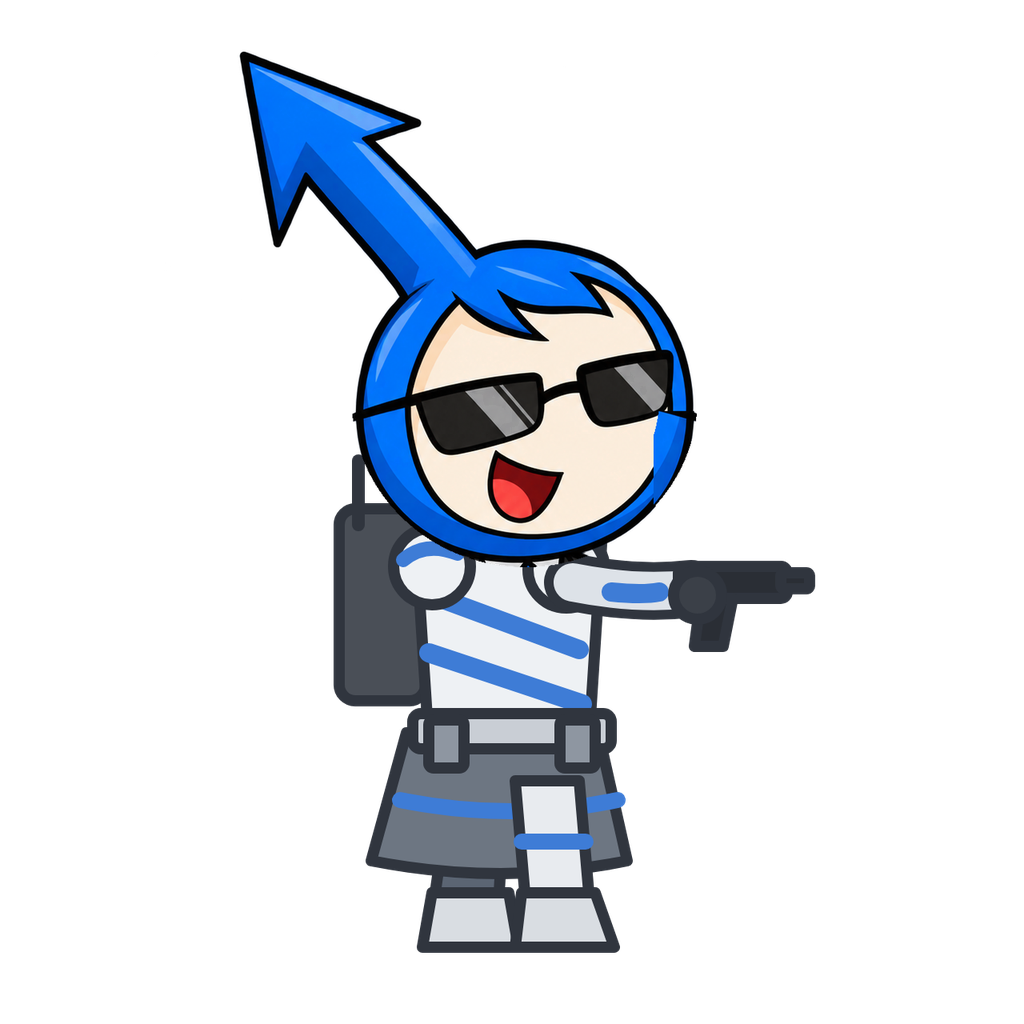
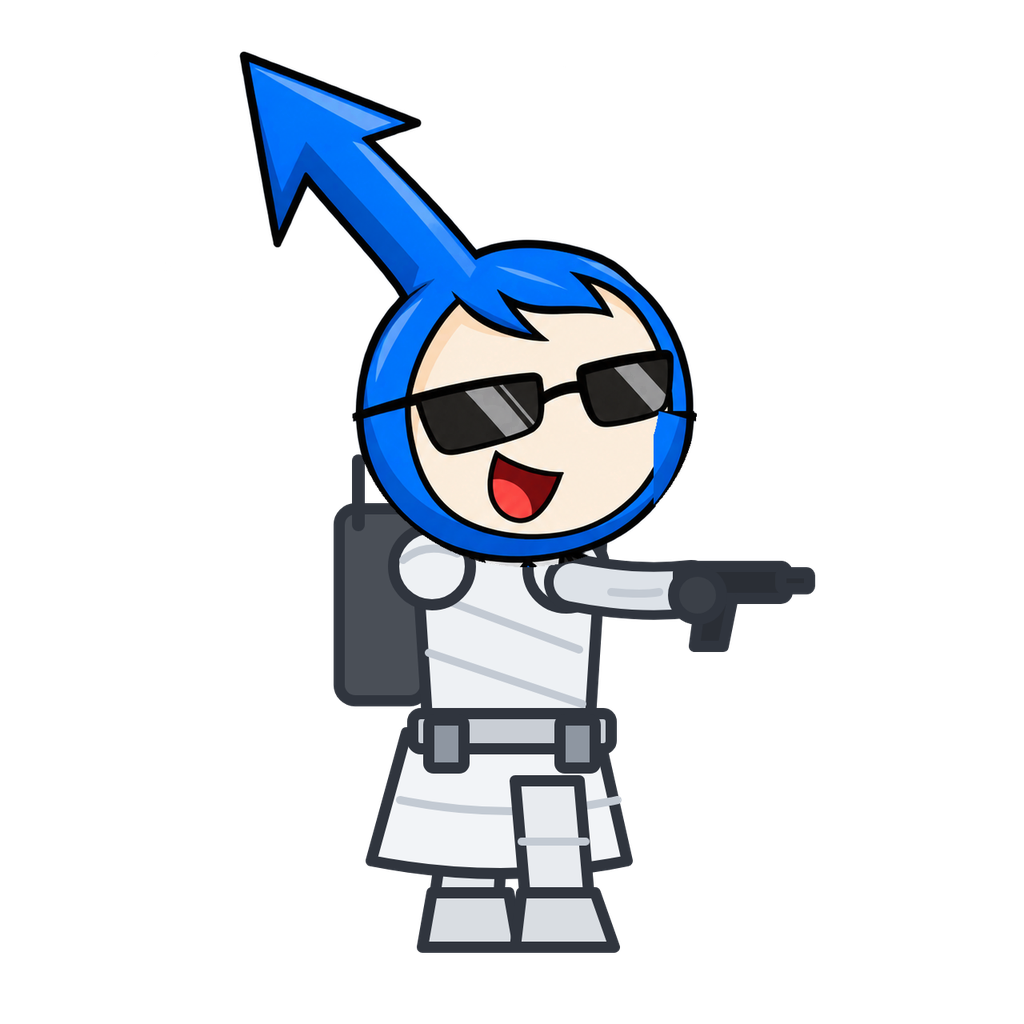
아크 트루퍼 하얀 갑옷, 즉사기 피해·유도 각도 조절
- 아크 트루퍼 몸통을 하얀 갑옷으로(파란 줄무늬 → 옅은 회색 이음선, 장갑 치마·다리 흰 판), 온이름 머리 다시 합성
- 즉사기: 피해(기본 9999 = 즉사)와 유도 각도(기본 180도 = 무조건 명중)를 밸런스 메뉴에서 조절.
  레이저는 조준 방향에서 상대 쪽으로 최대 유도 각도까지 휘고, 그 방향의 빛줄기(굵기 40)가 몸에 닿아야 맞음.
  빗나가면 꺾인 방향으로 경기장 끝까지 나가며(명중 섬광 없음), 한 경기 한 번은 그대로
- 테스트 추가, README·기획 문서 갱신

Claude-Session: https://claude.ai/code/session_01NqpxDEEsTPJDpYjnMmnjDu

Changed region(s): [[0.375, 0.7188, 0.625, 0.875], [0.375, 0.5312, 0.5938, 0.6875], [0.5938, 0.5625, 0.6562, 0.5938]]

diff --git a/src/game/update.js b/src/game/update.js
@@ -317,8 +317,9 @@ function fire(match, p, events) {
 export const elapsed = (match) => match.tick * TICK;
 
 /**
- * 즉사기: 가장 가까운 상대에게 유도되는 거대한 레이저. 엄폐물·무적과 상관없이 반드시 맞아 즉사한다.
- * 한 경기에 한 번(p.instakillUsed).
+ * 즉사기: 조준 방향에서 가장 가까운 상대 쪽으로 최대 weapon.homing도까지 휘는 거대한 레이저.
+ * 휜 방향의 빛줄기(굵기 beamWidth)가 상대 몸에 닿으면 weapon.damage 피해(기본 9999 = 즉사). 엄폐물·무적은 무시한다.
+ * 맞든 빗나가든 한 경기에 한 번(p.instakillUsed).
  */
 function fireInstakill(match, p, weapon, events) {
   let target = null, best = Infinity;
@@ -330,10 +331,24 @@ function fireInstakill(match, p, weapon, events) {
   if (!target) return;
   p.instakillUsed = true;
   const x1 = p.x + Math.cos(p.aim) * MUZZLE_OFFSET * 1.6, y1 = p.y + Math.sin(p.aim) * MUZZLE_OFFSET * 1.6;
+  // 유도: 조준 방향에서 상대 방향으로 최대 homing도까지 꺾는다
+  const toTarget = Math.atan2(target.y - y1, target.x - x1);
+  const diff = Math.atan2(Math.sin(toTarget - p.aim), Math.cos(toTarget - p.aim));
+  const limit = (Math.max(0, weapon.homing) * Math.PI) / 180;
+  const dir = p.aim + Math.max(-limit, Math.min(limit, diff));
+  const reach = 2400;
+  const x2 = x1 + Math.cos(dir) * reach, y2 = y1 + Math.sin(dir) * reach;
+  const hit = segmentCircleTime(x1 - target.x, y1 - target.y, x2 - target.x, y2 - target.y,
+    target.radius + weapon.beamWidth / 2) !== null;
   events.push({ type: 'fire', playerId: p.id, weapon: weapon.id });
-  events.push({ type: 'megalaser', playerId: p.id, x1, y1, x2: target.x, y2: target.y, aim: p.aim });
+  events.push({
+    type: 'megalaser', playerId: p.id, x1, y1, aim: p.aim, hit,
+    // 맞으면 상대에게 휘어 꽂히고, 빗나가면 꺾인 방향으로 경기장 끝까지
+    x2: hit ? target.x : x1 + Math.cos(dir) * 1800, y2: hit ? target.y : y1 + Math.sin(dir) * 1800,
+  });
+  if (!hit) return;
   const shot = { team: p.team, ownerId: p.id, weapon: weapon.id, connected: false };
-  damage(match, target, target.hp, shot, events);
+  damage(match, target, weaponDamage(p, weapon.id).damage, shot, events);
 }
 
 /** 단검 돌진 시작: 조준 방향으로 날아가 상대에 닿거나, 엄폐물·상대 레일·경기장 끝에 닿으면 자기 자리로 돌아온다. */

diff --git a/src/game/config.js b/src/game/config.js
@@ -26,8 +26,9 @@ export const TICK = 1 / 60;
  * dash: 쏘는 대신 조준 방향으로 dash.speed(초당)로 돌진해 상대 몸에 닿으면 damage를 준다(단검).
  * pellets·spread: 한 번에 pellets발을 spread도 부채꼴로 고르게 쏜다(샷건).
  * arrows·arrowGap: 한 번에 arrows발을 arrowGap 간격으로 나란히 쏜다(아킴보 석궁).
- * instakill: 거대한 레이저로 가장 가까운 상대를 반드시 맞혀 즉사시킨다(엄폐물·무적 무시). 경기 시작 readyAfter초 뒤부터,
- *   한 경기에 한 번 쓸 수 있다(제작자 전용).
+ * instakill: 거대한 레이저. 조준 방향에서 가장 가까운 상대 쪽으로 최대 homing도까지 휘어(180이면 어디를 겨눠도 명중),
+ *   닿으면 damage 피해(기본 9999 = 즉사)를 준다. 엄폐물·무적은 무시한다. 경기 시작 readyAfter초 뒤부터 한 경기에 한 번(제작자 전용).
+ *   beamWidth는 레이저 굵기(명중 판정 여유).
  * thrown: 던지는 무기. 엄폐물·플레이어 위로 날아가 목표 레일 선에서 터진다(직격 없음, 폭발 피해만).
  */
 export const WEAPONS = {
@@ -45,7 +46,9 @@ export const WEAPONS = {
     note: '팀 진영에 강철 엄폐물',
   },
   // 제작자 전용 주무기: 커다란 레이저포. 전투 시작 30초 뒤부터 쏠 수 있고, 쏘면 유도되는 거대 레이저가 상대를 즉사시킨다.
-  instakill: { id: 'instakill', name: '즉사기', interval: 0, damage: 0, burst: 1, instakill: true, readyAfter: 30 },
+  instakill: {
+    id: 'instakill', name: '즉사기', interval: 0, damage: 9999, burst: 1, instakill: true, readyAfter: 30, homing: 180, beamWidth: 40,
+  },
   // 드론(R-10) 전용 주무기
   laser: { id: 'laser', name: '레이저 캐논', interval: 0.1, damage: 4, burst: 1, beam: true, battery: { shots: 30, recharge: 2 } },
   // 보조무기

diff --git a/src/render/canvas.js b/src/render/canvas.js
@@ -325,8 +325,10 @@ export function createRenderer(canvas, wrap, assets) {
       ctx.quadraticCurveTo(cx, cy, fx.x2, fx.y2);
       ctx.stroke();
     }
-    ctx.fillStyle = 'rgba(255,255,255,0.8)';
-    ctx.beginPath(); ctx.arc(fx.x2, fx.y2, 70 * (1 - k * 0.6), 0, Math.PI * 2); ctx.fill();
+    if (fx.hit) {
+      ctx.fillStyle = 'rgba(255,255,255,0.8)';
+      ctx.beginPath(); ctx.arc(fx.x2, fx.y2, 70 * (1 - k * 0.6), 0, Math.PI * 2); ctx.fill();
+    }
     ctx.restore();
   }
 
@@ -499,7 +501,7 @@ export function createRenderer(canvas, wrap, assets) {
         if (e.type === 'hit') effects.push({ kind: 'hit', x: e.x, y: e.y, damage: e.damage, age: 0 });
         if (e.type === 'block') effects.push({ kind: 'block', x: e.x, y: e.y, age: 0 });
         if (e.type === 'explode') effects.push({ kind: 'explode', x: e.x, y: e.y, radius: e.radius, age: 0 });
-        if (e.type === 'megalaser') effects.push({ kind: 'megalaser', x1: e.x1, y1: e.y1, x2: e.x2, y2: e.y2, aim: e.aim, age: 0 });
+        if (e.type === 'megalaser') effects.push({ kind: 'megalaser', x1: e.x1, y1: e.y1, x2: e.x2, y2: e.y2, aim: e.aim, hit: e.hit, age: 0 });
         if (e.type === 'laser') effects.push({ kind: 'laser', x1: e.x1, y1: e.y1, x2: e.x2, y2: e.y2, age: 0 });
         if (e.type === 'cover-break') effects.push({ kind: 'debris', x: e.x, y: e.y, age: 0 });
       }

diff --git a/src/ui/widgets.js b/src/ui/widgets.js
@@ -4,7 +4,11 @@ export function weaponInfo(w) {
   if (w.beam) return `${w.interval}초마다 ${w.damage} · 배터리 ${w.battery.shots}발, 쉬면 ${w.battery.recharge}초 뒤 완충`;
   if (w.heat) return `${w.interval}초마다 ${w.damage} · ${w.heat.max}초 연사하면 과열 ${w.heat.cooldown}초`;
   if (w.thrown) return `아이템 버튼으로 던짐 · 반경 ${w.splash.radius} 폭발 ${w.splash.damage} · 쿨타임 ${w.interval}초`;
-  if (w.instakill) return `전투 시작 ${w.readyAfter}초 뒤부터 · 쏘면 거대한 레이저가 반드시 맞아 즉사 · 한 경기 한 번`;
+  if (w.instakill) {
+    const aim = w.homing >= 180 ? '반드시 맞아' : `최대 ${w.homing}도 휘어 맞으면`;
+    const hurt = w.damage >= 9999 ? '즉사' : `${w.damage} 피해`;
+    return `전투 시작 ${w.readyAfter}초 뒤부터 · 쏘면 거대한 레이저가 ${aim} ${hurt} · 한 경기 한 번`;
+  }
   if (w.dash) return `조준 후 떼면 매우 빠르게 돌진 · 닿으면 ${w.damage} · 쿨타임 ${w.interval}초`;
   if (w.pellets) return `조준 후 떼면 부채꼴로 ${w.pellets}발 · 한 발 ${w.damage} · 쿨타임 ${w.interval}초`;
   if (w.trigger === 'release') {

diff --git a/src/game/balance.js b/src/game/balance.js
@@ -48,6 +48,8 @@ export const SECTIONS = [
         ['유도 회전(rad/초)', ['homing', 'turnRate'], { max: 10, step: 0.1 }],
       ]),
       ...gun('sniper'),
+      param('즉사기', '피해(9999면 즉사)', ['weapons', 'instakill', 'damage'], { max: 9999, step: 1 }),
+      param('즉사기', '유도 각도(도, 180이면 무조건 명중)', ['weapons', 'instakill', 'homing'], { max: 180, step: 1 }),
       param('즉사기', '사용 가능 시각(전투 시작 후)', ['weapons', 'instakill', 'readyAfter'], { max: 600, step: 1, unit: SEC }),
       ...gun('crossbow', [['두 화살 간격', ['arrowGap'], { max: 120, step: 1 }]]),
     ],

diff --git a/README.md b/README.md
@@ -73,15 +73,15 @@ npm test         # node --test, 이동·조준·발사·무기 선택·수류탄
 
 체력 500, 히트박스 반지름 30, 이동 속도 300이며, 수치는 밸런스 조정 메뉴에서 바꿀 수 있습니다.
 
-**숨겨진 캐릭터 · 아크 트루퍼**: 캐릭터 선택 화면에서 **온이름 버튼을 빠르게 2번 누르면**(0.5초 안) 그 버튼이 아크 트루퍼로 바뀌고 선택됩니다. 아크 트루퍼가 된 버튼을 한 번 누르면 온이름으로 돌아옵니다. 파란 줄무늬 흰 장갑을 입은 병사에 **얼굴은 온이름**이며, **제트팩으로 떠서 움직이며 움직일 때 제트팩에서 불꽃이 나오고, 다른 캐릭터(초당 300)보다 빠릅니다(초당 420)**. 그림은 직접 그린 장갑 몸통에 온이름 머리를 합성한 것입니다(받은 참고 그림은 공식 저작물이라 쓰지 않음). 무기는 다른 캐릭터처럼 자유롭게 고르고, **상대에게 피해를 줄 때마다 5를 더 줍니다**(총알·폭발·돌진 모두, 밸런스 메뉴에서 조절).
+**숨겨진 캐릭터 · 아크 트루퍼**: 캐릭터 선택 화면에서 **온이름 버튼을 빠르게 2번 누르면**(0.5초 안) 그 버튼이 아크 트루퍼로 바뀌고 선택됩니다. 아크 트루퍼가 된 버튼을 한 번 누르면 온이름으로 돌아옵니다. **하얀 갑옷**을 입은 병사에 **얼굴은 온이름**이며, **제트팩으로 떠서 움직이며 움직일 때 제트팩에서 불꽃이 나오고, 다른 캐릭터(초당 300)보다 빠릅니다(초당 420)**. 그림은 직접 그린 하얀 갑옷 몸통에 온이름 머리를 합성한 것입니다(받은 참고 그림은 공식 저작물이라 쓰지 않음). 무기는 다른 캐릭터처럼 자유롭게 고르고, **상대에게 피해를 줄 때마다 5를 더 줍니다**(총알·폭발·돌진 모두, 밸런스 메뉴에서 조절).
 
 **숨겨진 캐릭터 · 제작자**: 온이름 버튼을 **빠르게 3번** 누르면 나타납니다(2번째에 아크 트루퍼로 바뀌었다가 3번째에 제작자로 바뀜). 한 번 누르면 온이름으로 돌아옵니다. 모습은 온이름인데 몸에 빨간 글씨로 '제작자'라고 써 있습니다. 전용 주무기 **즉사기**만 씁니다(보조무기·수류탄 없음).
 
 | 전용 주무기 | 발사 방식 | 피해 |
 | --- | --- | --- |
-| 즉사기 | 커다란 레이저포. **전투 시작 30초 뒤부터** 쏠 수 있고(그 전엔 버튼에 남은 초, 캐릭터 아래 빨간 막대가 차오름), 쏘면 거대한 레이저가 가장 가까운 상대에게 휘어 들어가 **무조건 맞음**(엄폐물·단검 무적도 무시). 한 경기에 한 번 | 즉사 |
+| 즉사기 | 커다란 레이저포. **전투 시작 30초 뒤부터** 쏠 수 있고(그 전엔 버튼에 남은 초, 캐릭터 아래 빨간 막대가 차오름), 쏘면 거대한 레이저가 조준 방향에서 가장 가까운 상대 쪽으로 휘어 들어감. 기본은 **무조건 맞음**(유도 180도, 엄폐물·단검 무적도 무시). 맞든 빗나가든 한 경기에 한 번 | 즉사(기본 9999) |
 
-사용 가능 시각(전투 시작 후 몇 초)은 밸런스 조정 메뉴에서 바꿀 수 있습니다. 경기가 끝나면 마지막 한 방이 보이도록 결과 화면은 약 1초 뒤에 뜹니다.
+밸런스 조정 메뉴에서 즉사기의 **피해**(9999면 즉사, 줄이면 그만큼만), **유도 각도**(조준 방향에서 최대 몇 도까지 휘는지, 180이면 어디를 겨눠도 명중·작게 하면 비슷하게 겨눠야 맞음), **사용 가능 시각**(전투 시작 후 몇 초)을 바꿀 수 있습니다. 경기가 끝나면 마지막 한 방이 보이도록 결과 화면은 약 1초 뒤에 뜹니다.
 
 RPG는 가장 가까운 적 쪽으로 휘어 날아가며(초당 최대 약 46°, 약하게), 빗나가도 적 레일 선·경기장 끝·수명 끝에서 반드시 터져 주변에 폭발 피해를 줍니다.
 

diff --git a/docs/02-game-design.md b/docs/02-game-design.md
@@ -53,7 +53,7 @@
 | 주무기 | 쌍권총 | 누르고 있으면 0.5초마다 2점사(0.1초 간격) | 10 | 탄속 720 |
 | 주무기 | RPG | 떼면 발사, 쿨타임 1초 | 직격 40, 폭발 10(반경 120) | 탄속 900, 가장 가까운 적 쪽으로 약하게 유도(초당 0.8rad). 빗나가도 적 레일 선·경기장 끝·수명 끝에서 폭발. 엄폐물 직격은 2배 |
 | 주무기 | 저격총 | 떼면 발사, 쿨타임 1초 | 60 | 탄속 1600, 긴 조준선. 고르면 자기 진영에 부서지지 않는 강철 엄폐물 1개 |
-| 제작자 전용 | 즉사기 | 전투 시작 30초 뒤부터, 누르면 발사, 한 경기 한 번 | 즉사 | 거대한 레이저가 가장 가까운 상대에게 유도되어 무조건 맞음(엄폐물·무적 무시). 사용 가능 시각은 밸런스로 조절 |
+| 제작자 전용 | 즉사기 | 전투 시작 30초 뒤부터, 누르면 발사, 한 경기 한 번 | 9999(즉사) | 거대한 레이저가 조준 방향에서 상대 쪽으로 최대 180도 휘어 무조건 맞음(엄폐물·무적 무시). 피해·유도 각도·사용 가능 시각은 밸런스로 조절 |
 | 숨겨진 캐릭터 전용 | 아킴보 석궁 | 누르고 있으면 0.7초마다 화살 2개가 나란히 | 화살 1개 12 | 탄속 1500, 화살 간격 26. 에스가라 케스가라의 분신만 사용 |
 | 드론 전용 | 레이저 캐논 | 누르고 있으면 0.1초마다, 즉시 닿는 광선 | 4 | 배터리 30발, 마지막 발사 2초 뒤 완충. R-10은 이 무기만 쓰며 보조무기·아이템 없음 |
 | 보조무기 | 기관단총(기본) | 누르고 있으면 0.1초마다 | 4 | 탄속 800. 4초 연사하면 과열되어 2초 사용 불가, 쉬면 초당 1씩 식음 |
@@ -67,7 +67,7 @@
 | --- | --- | --- | --- | --- |
 | 온이름·피자럭스·요원 1·요원 2 | 500 | 30 | 300 | 주무기 5종 중 선택 |
 | R-10(드론) | 400 | 48 | 300 | 1.4배 크게 그림, 레이저 캐논 고정 |
-| 아크 트루퍼(숨겨진 캐릭터) | 500 | 30 | 420 | 선택 화면에서 온이름 버튼을 빠르게 2번 누르면 온이름 자리에 나타남. 제트팩으로 떠서 움직임(불꽃), 무기 자유 선택, 상대에게 주는 피해마다 +5 |
+| 아크 트루퍼(숨겨진 캐릭터) | 500 | 30 | 420 | 선택 화면에서 온이름 버튼을 빠르게 2번 누르면 온이름 자리에 나타남. 하얀 갑옷에 얼굴은 온이름. 제트팩으로 떠서 움직임(불꽃), 무기 자유 선택, 상대에게 주는 피해마다 +5 |
 | 제작자(숨겨진 캐릭터) | 500 | 30 | 300 | 온이름 버튼을 빠르게 3번. 온이름 모습에 몸에 빨간 '제작자'. 즉사기 고정, 보조무기·수류탄 없음 |
 | 에스가라 케스가라의 분신(숨겨진 캐릭터) | 500 | 30 | 300 | 선택 화면에서 R-10 버튼을 빠르게 3번 누르면 R-10 자리에 나타남(다시 3번이면 되돌아감). 아킴보 석궁 고정, 보조무기·수류탄 없음 |
 
